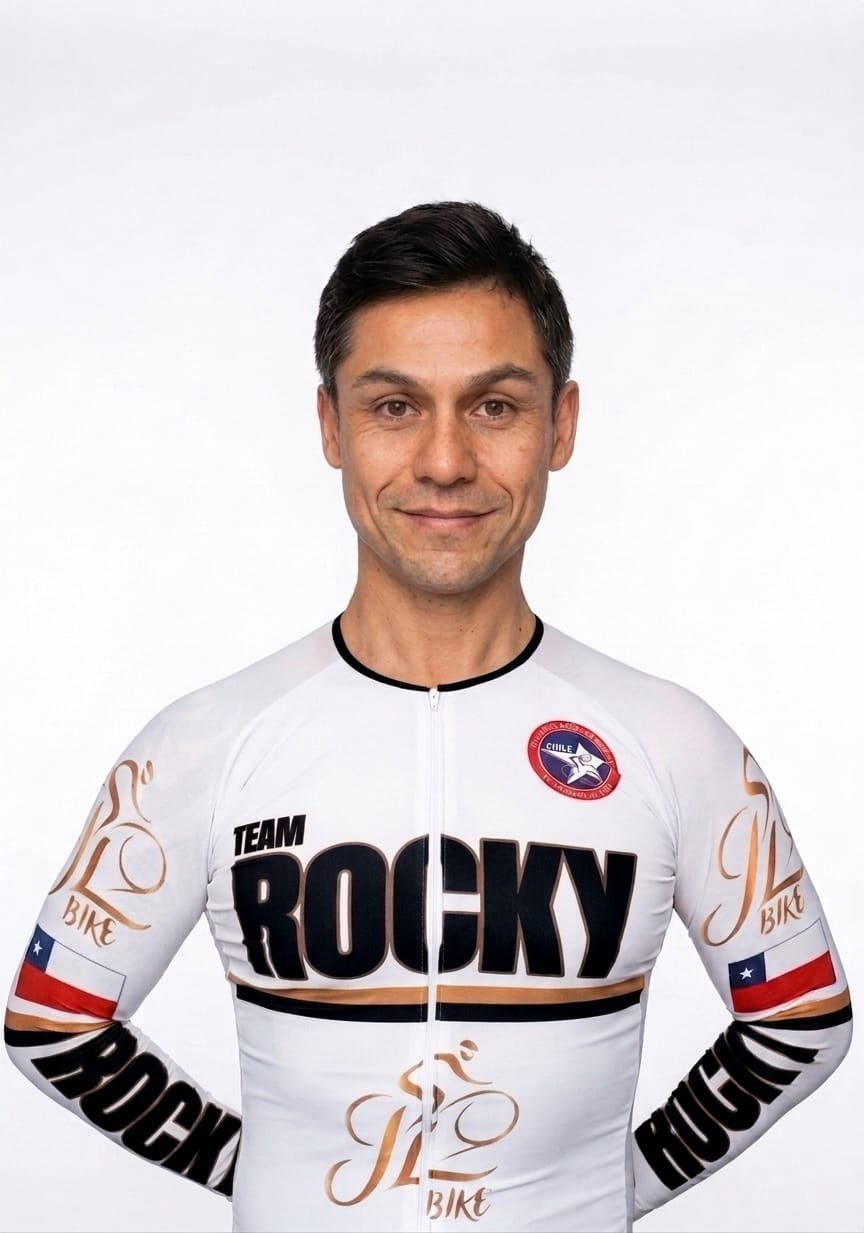
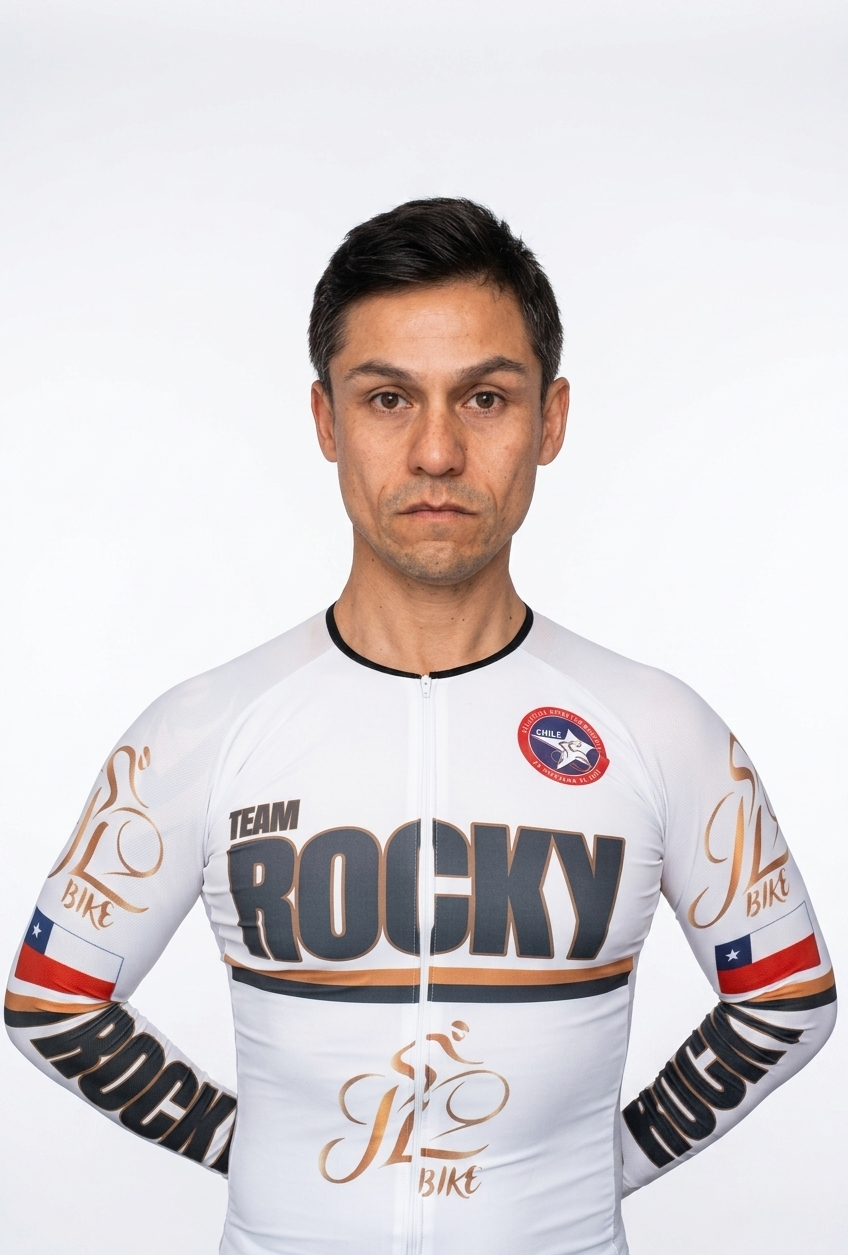
cambiada la foto del rocky

Changed region(s): [[0.0, 0.1541, 1.0, 1.0]]

diff --git a/assets/js/script.js b/assets/js/script.js
@@ -88,8 +88,8 @@ $(document).ready(function () {
             resumen: "Fundador y líder del Team Rocky, con una destacada trayectoria deportiva.",
             bio: "Impulsor y líder del Team Rocky, proyecto que promueve el rendimiento deportivo, el trabajo en equipo y la formación de una comunidad unida por el ciclismo.",
             palmares: "Dos veces campeón nacional máster de patín carrera.\nCampeón por equipos en el Gran Fondo Valle del Elqui (2022), con un 2.º lugar en Máster A y un 3.er lugar en la clasificación general.\n2.º lugar en la Clásica Andacollo (2025).\nCampeón del Ranking Anual por Equipos Canadela, categoría Máster A (2024 y 2025).\n2.º lugar por equipos en la Vuelta Maule Centro (2024) y 3.er lugar (2025).\nCampeón del Ranking por Equipos Coltauco (2025).",
-            foto: "assets/img/rocky.png",
-            posicionMovil: "50% 35%"
+            foto: "assets/img/rocky.jpeg",
+            posicionMovil: "50% 25%"
         },
         {
             id: "juan-luis-perez-farfan",
